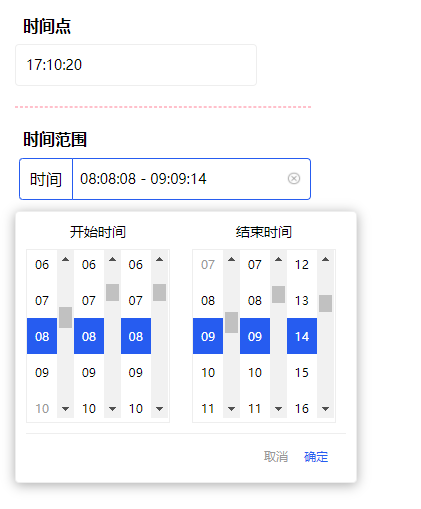
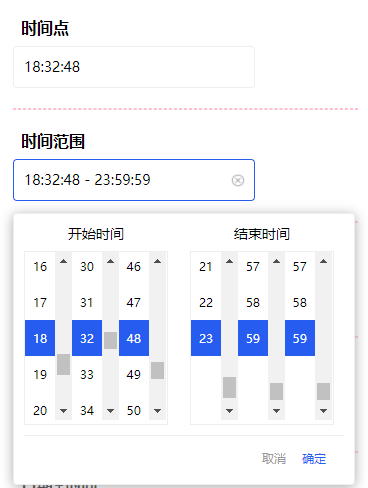
update readme

diff --git a/README.md b/README.md
@@ -507,7 +507,6 @@ export default function LoadingDemo() {
 ````javascript
 <h4>时间点</h4>
 <TimePicker
-  // label="我是label"
   value={time}
   // disabledTimeRange={['20:10:20-6:30:40', '8:8:8-9:9:9']}  // 禁用时间段
   disabledTimeRange={['17:10:20-23:10:40']}  // 禁用时间段
@@ -520,7 +519,6 @@ export default function LoadingDemo() {
 
 <h4>时间范围</h4>
 <TimePicker
-  label="时间"
   showTimeRangePicker={true} // true：表示选择时间范围
   value={rangeTime}
   // disabledTimeRange={['20:10:20-6:30:40', '8:8:8-9:9:9']}  // 禁用时间段
